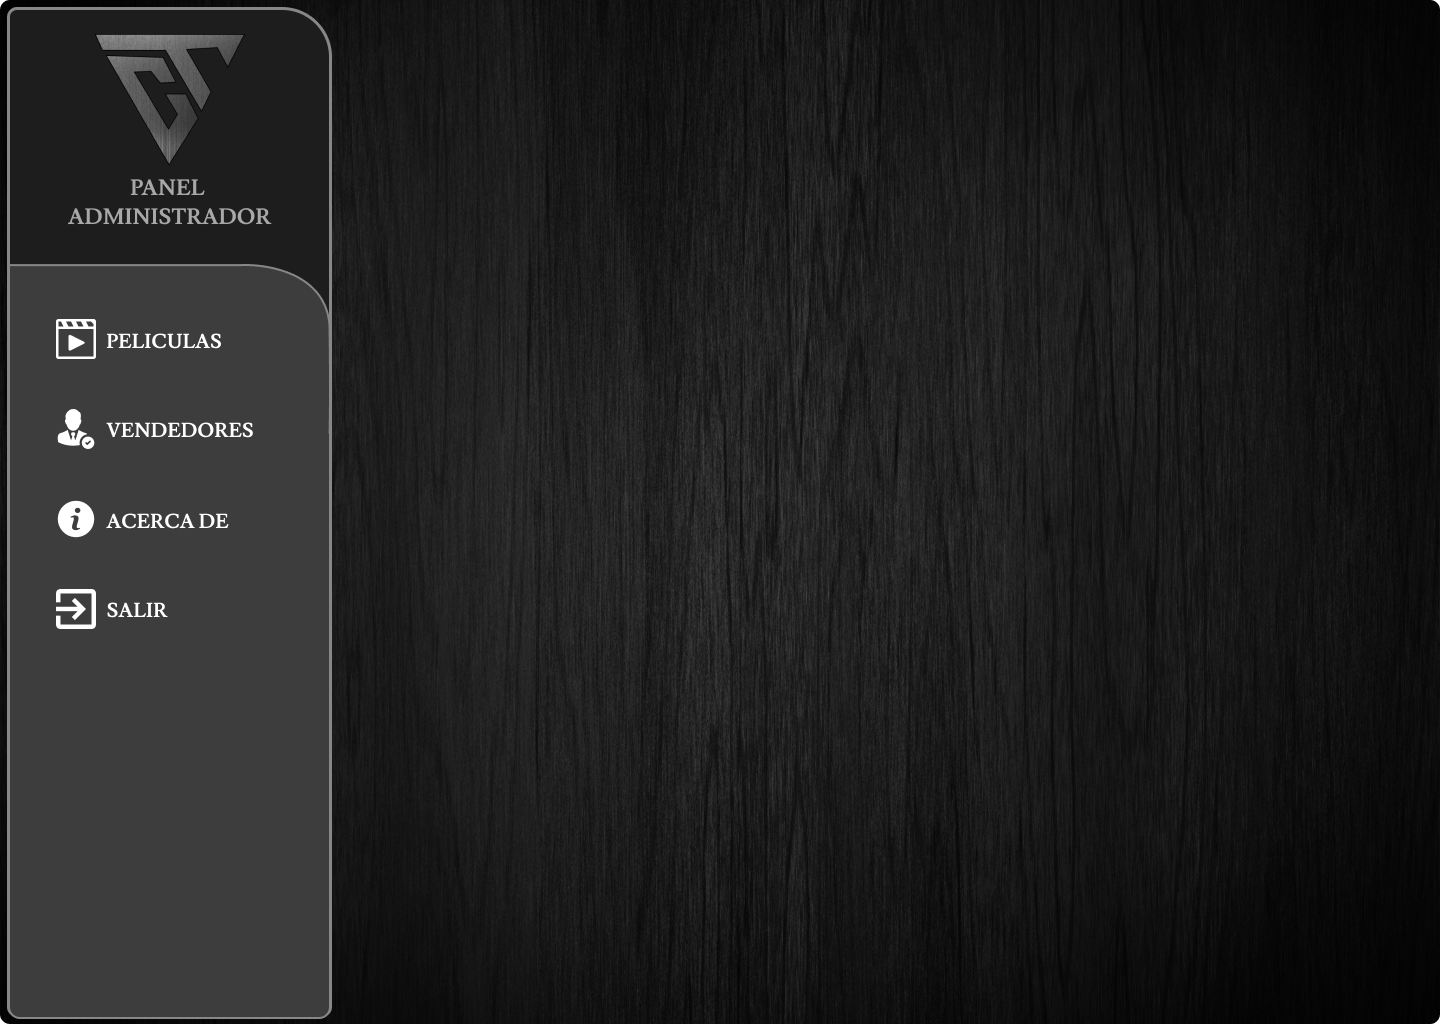
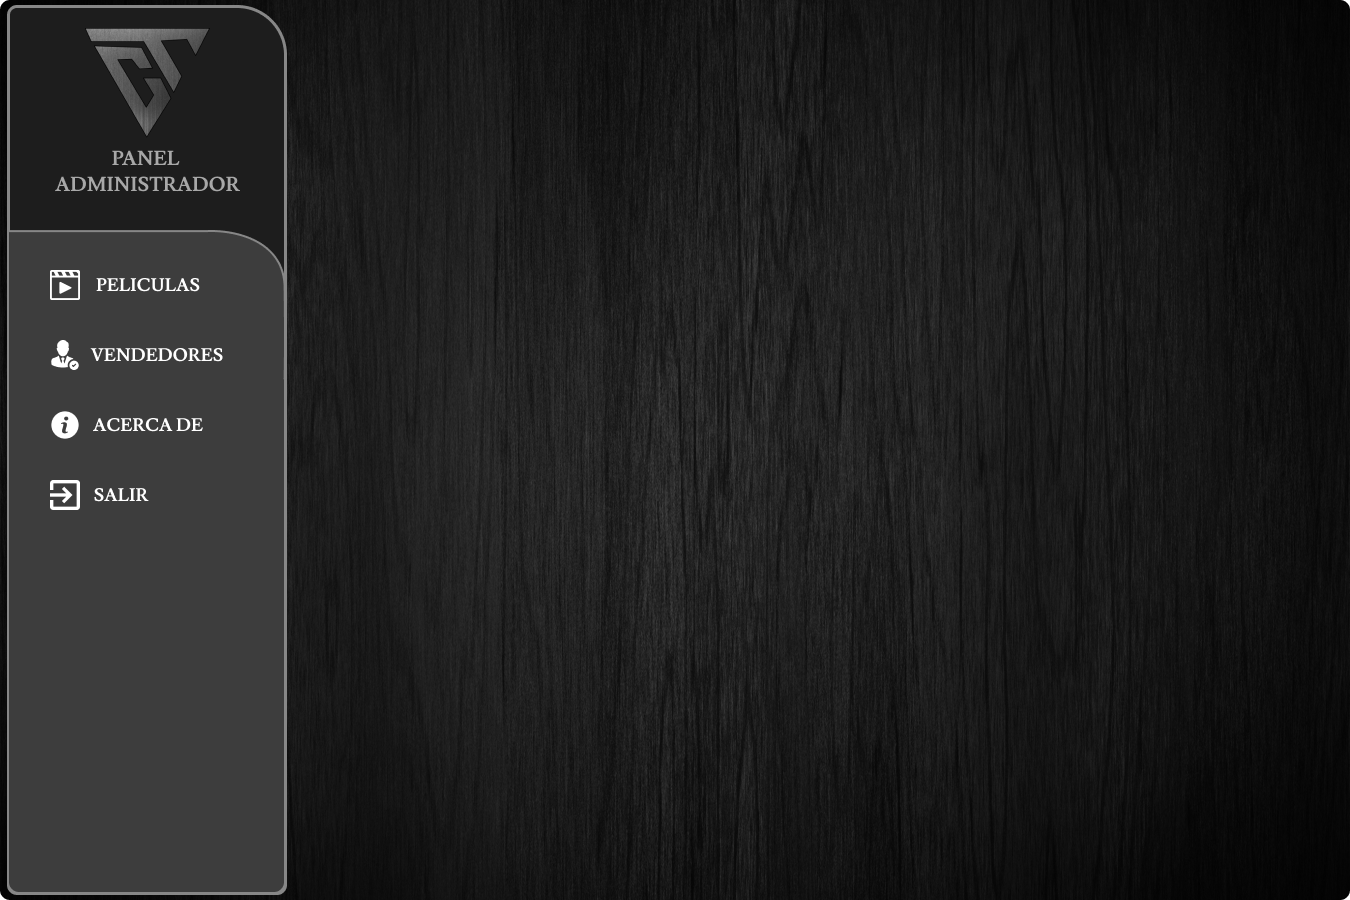
pantalla de administrador modificada

diff --git a/CinematixApp/src/JFrames/AdminDashboard.java b/CinematixApp/src/JFrames/AdminDashboard.java
@@ -30,6 +30,7 @@ public class AdminDashboard extends javax.swing.JFrame {
     // <editor-fold defaultstate="collapsed" desc="Generated Code">//GEN-BEGIN:initComponents
     private void initComponents() {
 
+        jLabel1 = new javax.swing.JLabel();
         back = new javax.swing.JLabel();
 
         setDefaultCloseOperation(javax.swing.WindowConstants.EXIT_ON_CLOSE);
@@ -39,22 +40,18 @@ public class AdminDashboard extends javax.swing.JFrame {
                 formWindowOpened(evt);
             }
         });
+        getContentPane().setLayout(new org.netbeans.lib.awtextra.AbsoluteLayout());
 
+        jLabel1.addMouseListener(new java.awt.event.MouseAdapter() {
+            public void mouseClicked(java.awt.event.MouseEvent evt) {
+                jLabel1MouseClicked(evt);
+            }
+        });
+        getContentPane().add(jLabel1, new org.netbeans.lib.awtextra.AbsoluteConstraints(150, 470, 110, 50));
+
+        back.setHorizontalAlignment(javax.swing.SwingConstants.CENTER);
         back.setIcon(new javax.swing.ImageIcon(getClass().getResource("/imagenes/AdminDashboard1.png"))); // NOI18N
-
-        javax.swing.GroupLayout layout = new javax.swing.GroupLayout(getContentPane());
-        getContentPane().setLayout(layout);
-        layout.setHorizontalGroup(
-            layout.createParallelGroup(javax.swing.GroupLayout.Alignment.LEADING)
-            .addGroup(layout.createSequentialGroup()
-                .addContainerGap()
-                .addComponent(back, javax.swing.GroupLayout.PREFERRED_SIZE, 1455, javax.swing.GroupLayout.PREFERRED_SIZE)
-                .addContainerGap(javax.swing.GroupLayout.DEFAULT_SIZE, Short.MAX_VALUE))
-        );
-        layout.setVerticalGroup(
-            layout.createParallelGroup(javax.swing.GroupLayout.Alignment.LEADING)
-            .addComponent(back, javax.swing.GroupLayout.Alignment.TRAILING, javax.swing.GroupLayout.DEFAULT_SIZE, 1042, Short.MAX_VALUE)
-        );
+        getContentPane().add(back, new org.netbeans.lib.awtextra.AbsoluteConstraints(102, 0, -1, -1));
 
         pack();
         setLocationRelativeTo(null);
@@ -74,6 +71,12 @@ public class AdminDashboard extends javax.swing.JFrame {
            }   
             
     }//GEN-LAST:event_formWindowOpened
+
+    private void jLabel1MouseClicked(java.awt.event.MouseEvent evt) {//GEN-FIRST:event_jLabel1MouseClicked
+         Inicio ini = new Inicio();
+        ini.setVisible(true);
+         this.dispose();
+    }//GEN-LAST:event_jLabel1MouseClicked
 
     /**
      * @param args the command line arguments
@@ -112,5 +115,6 @@ public class AdminDashboard extends javax.swing.JFrame {
 
     // Variables declaration - do not modify//GEN-BEGIN:variables
     private javax.swing.JLabel back;
+    private javax.swing.JLabel jLabel1;
     // End of variables declaration//GEN-END:variables
 }

diff --git a/CinematixApp/src/JFrames/LoginAdmin.java b/CinematixApp/src/JFrames/LoginAdmin.java
@@ -126,7 +126,7 @@ public class LoginAdmin extends javax.swing.JFrame {
     private void btnCerrarMouseClicked(java.awt.event.MouseEvent evt) {//GEN-FIRST:event_btnCerrarMouseClicked
         Inicio regresoMenu = new Inicio();
         regresoMenu.setVisible(true);
-        dispose();
+       
     }//GEN-LAST:event_btnCerrarMouseClicked
 
     private void btnIniciarSesionFocusGained(java.awt.event.FocusEvent evt) {//GEN-FIRST:event_btnIniciarSesionFocusGained
@@ -148,6 +148,7 @@ public class LoginAdmin extends javax.swing.JFrame {
           if(txtusuario.getText().equals(usuario)&&pass.getText().equals(password)){
         AdminDashboard ini = new AdminDashboard();
         ini.setVisible(true);
+         this.dispose();
           }else{
               txtusuario.setText("");
               pass.setText("");
